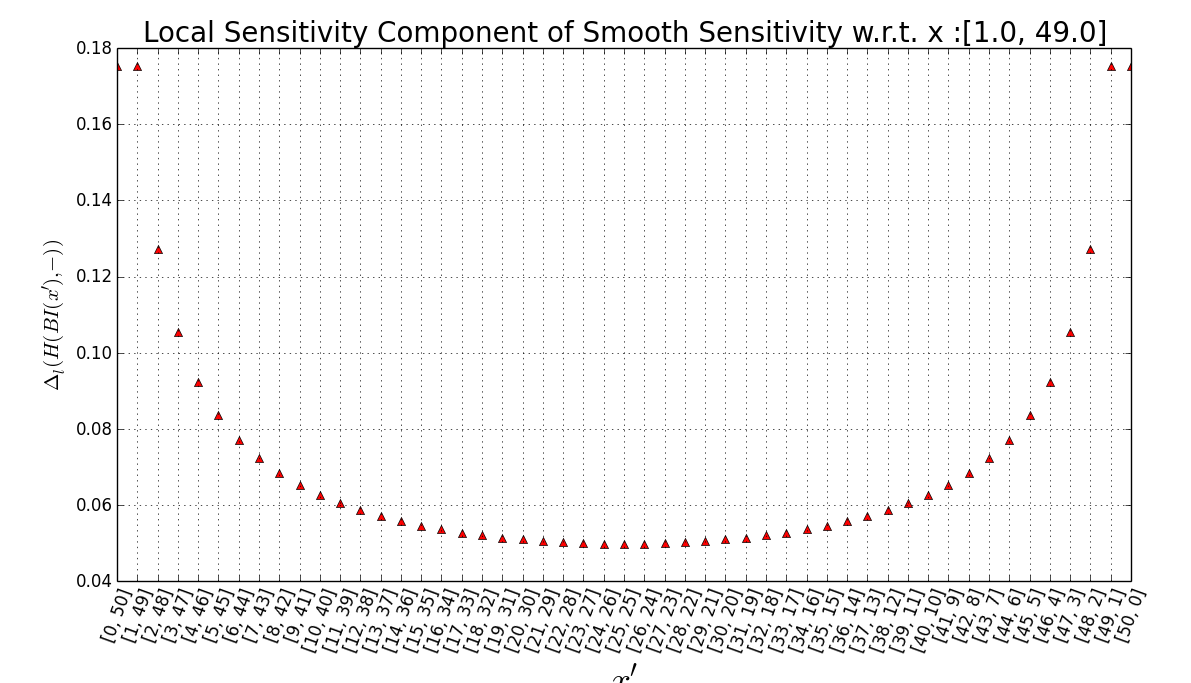
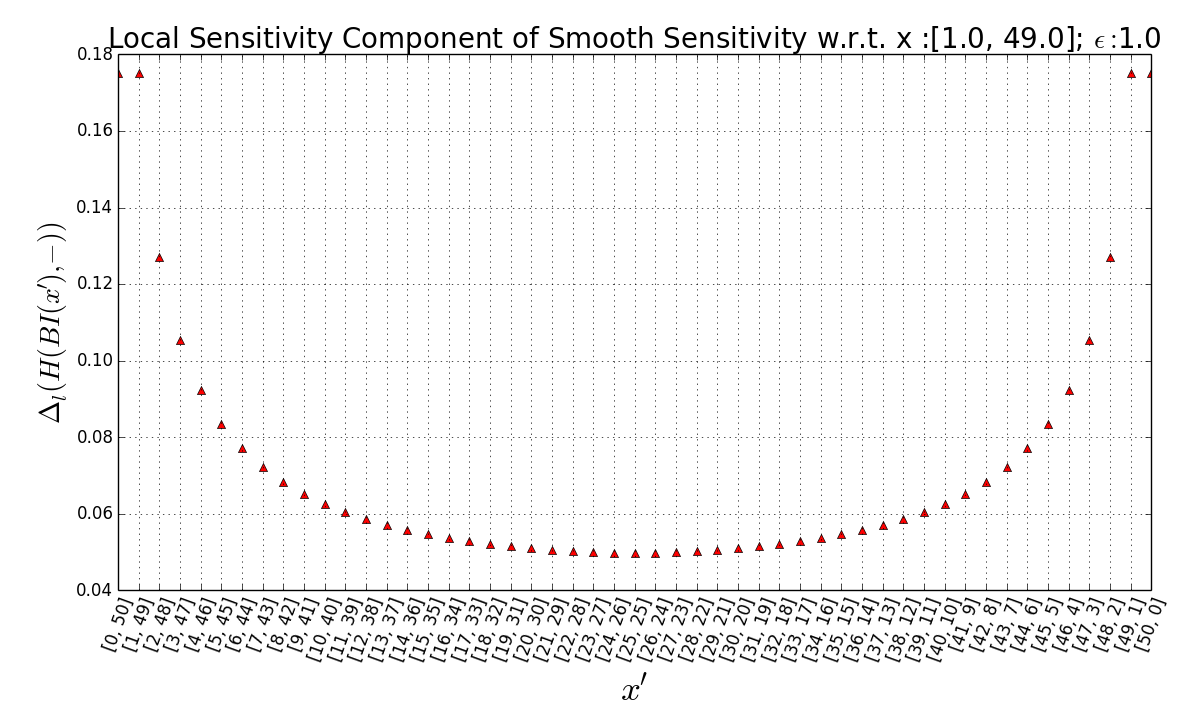
update plots

diff --git a/codes/SmoothSenOpt.py b/codes/SmoothSenOpt.py
@@ -22,6 +22,7 @@ def Hamming_Distance(c1, c2):
 
 def smooth_sensitivity_study2(prior, sample_size, epsilon, delta, percentage):
 	Bayesian_Model = BayesInferwithDirPrior(prior, sample_size, epsilon,delta)
+	observation = [sample_size*i for i in percentage]
 	Bayesian_Model._set_observation([sample_size*i for i in percentage])
 
 	Bayesian_Model._set_candidate_scores()
@@ -35,39 +36,43 @@ def smooth_sensitivity_study2(prior, sample_size, epsilon, delta, percentage):
 		# Bayesian_Model._set_LS_Candidates()
 		max_value = 0.0
 		max_y = ''
-		max_y_list = []
+		# max_y_list = []
 		for r in Bayesian_Model._candidates:
-			temp = Bayesian_Model._LS_Candidates[r] * math.exp(- beta * Hamming_Distance(Bayesian_Model._observation_counts, [r._alphas[i] - prior._alphas[i] for i in range(prior._size)]))
+			temp = Bayesian_Model._LS_Candidates[r] * math.exp(- beta * Hamming_Distance(t._alphas, r._alphas))
 			if max_value < temp:
 				max_y = r._alphas
 				max_value = temp
 
-		for r in Bayesian_Model._candidates:
-			temp = Bayesian_Model._LS_Candidates[r] * math.exp(- beta * Hamming_Distance(Bayesian_Model._observation_counts, [r._alphas[i] - prior._alphas[i] for i in range(prior._size)]))
-			if max_value == temp:
-				max_y_list.append(str(r._alphas))
+		# for r in Bayesian_Model._candidates:
+		# 	temp = Bayesian_Model._LS_Candidates[r] * math.exp(- beta * Hamming_Distance(observation, r._alphas))
+		# 	if max_value == temp:
+		# 		max_y_list.append(str(r._alphas))
 
-		print "when data set x = "+str(t._alphas) + ", the max value takes at y = " + str(max_y_list)
+		print "when data set x = "+str(t._alphas) + ", the max value takes at y = " + str(max_y)
 
 
 
 def smooth_sensitivity_study(prior, sample_size, epsilon, delta, percentage):
 	Bayesian_Model = BayesInferwithDirPrior(prior, sample_size, epsilon,delta)
+	observation = [sample_size*i for i in percentage]
 	Bayesian_Model._set_observation([sample_size*i for i in percentage])
 
 	Bayesian_Model._set_candidate_scores()
 	Bayesian_Model._set_LS_Candidates()
 
-	xstick = [str((c._minus(Bayesian_Model._prior))._alphas) for c in Bayesian_Model._candidates]
+	xstick = [str((r._minus(Bayesian_Model._prior))._alphas) for r in Bayesian_Model._candidates]
+
 	beta = math.log(1 - epsilon / (2.0 * math.log(delta / (2.0 * (sample_size)))))
-	y=[Bayesian_Model._LS_Candidates[r] * math.exp(- beta * Hamming_Distance(Bayesian_Model._observation_counts, [r._alphas[i] - prior._alphas[i] for i in range(prior._size)])) for r in Bayesian_Model._candidates]
 
+	y=[Bayesian_Model._LS_Candidates[r] * math.exp(- beta * Hamming_Distance(observation, r._alphas)) for r in Bayesian_Model._candidates]
 
-	plot_ss(y,xstick,'Smooth Sensitivity Study w.r.t. x :' + str([sample_size*i for i in percentage]), r"$\Delta_l(H(BI(x'),-))e^{- \gamma *d(x,x')}$")
+	plot_ss(y,xstick,'Smooth Sensitivity Study w.r.t. x :' + str([sample_size*i for i in percentage]) + r'; $\epsilon = $' + str(epsilon), r"$\Delta_l(H(BI(x'),-))e^{- \gamma *d(x,x')}$")
+
 
 
 def plot_ss(ss,xstick,title,yaxis):
-	plt.figure(figsize=(12,8))
+	plt.figure(figsize=(12,6))
+
 	plt.plot(range(len(ss)),ss,'r^')
 
 	plt.xticks(range(len(ss)),xstick,rotation=70,fontsize=12)
@@ -82,21 +87,27 @@ def plot_ss(ss,xstick,title,yaxis):
 
 def ss_exponentiate_component_study(prior, sample_size, epsilon, delta, percentage):
 	Bayesian_Model = BayesInferwithDirPrior(prior, sample_size, epsilon,delta)
-	Bayesian_Model._set_observation([sample_size*i for i in percentage])
+	observation = [sample_size*i for i in percentage]
+	Bayesian_Model._set_observation(observation)
 
 	Bayesian_Model._set_candidate_scores()
 
 	xstick = [str((c._minus(Bayesian_Model._prior))._alphas) for c in Bayesian_Model._candidates]
+	# print [c._alphas for c in Bayesian_Model._candidates]
+
 	beta = math.log(1 - epsilon / (2.0 * math.log(delta / (2.0 * (sample_size)))))
-	y=[math.exp(- beta * Hamming_Distance(Bayesian_Model._observation_counts, [r._alphas[i] - prior._alphas[i] for i in range(prior._size)])) for r in Bayesian_Model._candidates]
+	# y=[Hamming_Distance(Bayesian_Model._observation_counts, r._alphas) for r in Bayesian_Model._candidates]
+	# print y
+	y=[math.exp(- beta * Hamming_Distance(observation, r._alphas)) for r in Bayesian_Model._candidates]
 
 
-	plot_ss(y,xstick,'Exponentiate Component of Smooth Sensitivity w.r.t. x :' + str([sample_size*i for i in percentage]),r"$e^{- \gamma *d(x,x')}$")
+	plot_ss(y,xstick,'Exponentiate Component of Smooth Sensitivity w.r.t. x :' + str([sample_size*i for i in percentage]) + r'; $\epsilon:$' + str(epsilon), r"$e^{- \gamma *d(x,x')}$")
 
 	return
 
 def ss_ls_component_study(prior, sample_size, epsilon, delta, percentage):
 	Bayesian_Model = BayesInferwithDirPrior(prior, sample_size, epsilon,delta)
+	observation = [sample_size*i for i in percentage]
 	Bayesian_Model._set_observation([sample_size*i for i in percentage])
 
 	Bayesian_Model._set_candidate_scores()
@@ -107,16 +118,22 @@ def ss_ls_component_study(prior, sample_size, epsilon, delta, percentage):
 	y=[Bayesian_Model._LS_Candidates[r] for r in Bayesian_Model._candidates]
 
 
-	plot_ss(y,xstick,'Local Sensitivity Component of Smooth Sensitivity w.r.t. x :' + str([sample_size*i for i in percentage]),r"$\Delta_l(H(BI(x'),-))}$")
+	plot_ss(y,xstick,'Local Sensitivity Component of Smooth Sensitivity w.r.t. x :' + str([sample_size*i for i in percentage]) + r'; $\epsilon:$' + str(epsilon), r"$\Delta_l(H(BI(x'),-))}$")
 
 	return
 
 
 if __name__ == "__main__":
-	percentage = [0.02,0.98]
-	datasize = 50
-	prior = dirichlet([1,1])
+	percentage = [0.1,0.1,0.8]
+	datasize = 10
+	prior = dirichlet([1,1,1])
 
-	ss_exponentiate_component_study(prior,datasize,0.8,0.00000001,percentage)
+	# ss_exponentiate_component_study(prior, datasize, 1, 0.00000001, percentage)
 
-	# ss_ls_component_study(prior,datasize,0.8,0.00000001,percentage)
+	# ss_ls_component_study(prior, datasize, 1.0, 0.00000001, percentage)
+
+	# smooth_sensitivity_study(prior,datasize, 1, 0.00000001, percentage)
+	
+	smooth_sensitivity_study2(prior,datasize,1,0.00000001, percentage)
+
+

diff --git a/codes/dpbayesinfer.py b/codes/dpbayesinfer.py
@@ -17,7 +17,7 @@ from scipy.special import gammaln
 
 def Hamming_Distance(c1, c2):
 	temp = [abs(a - b) for a,b in zip(c1,c2)]
-	return sum(temp)/2
+	return sum(temp)/2.0
 
 
 class BayesInferwithDirPrior(object):
